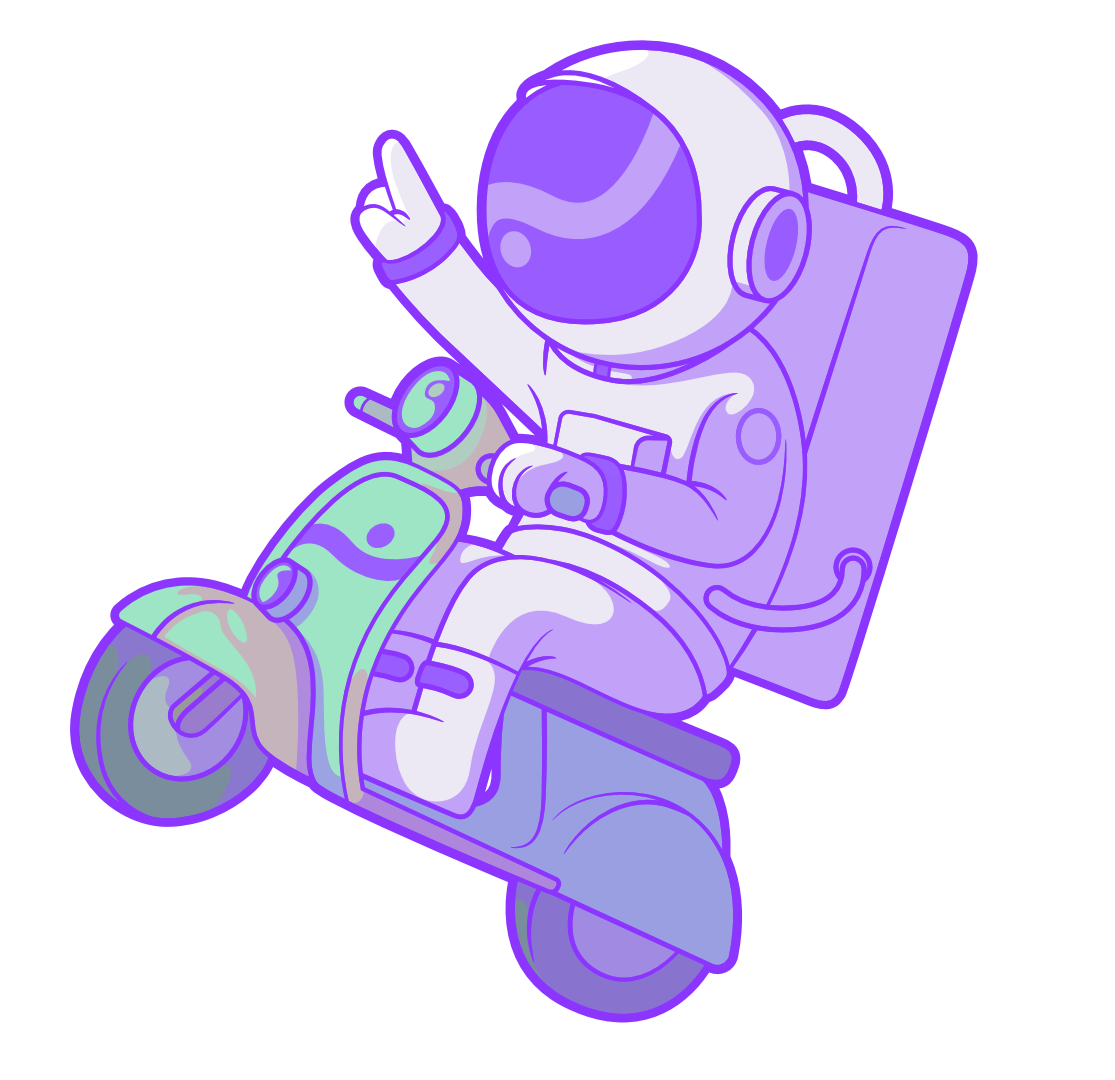
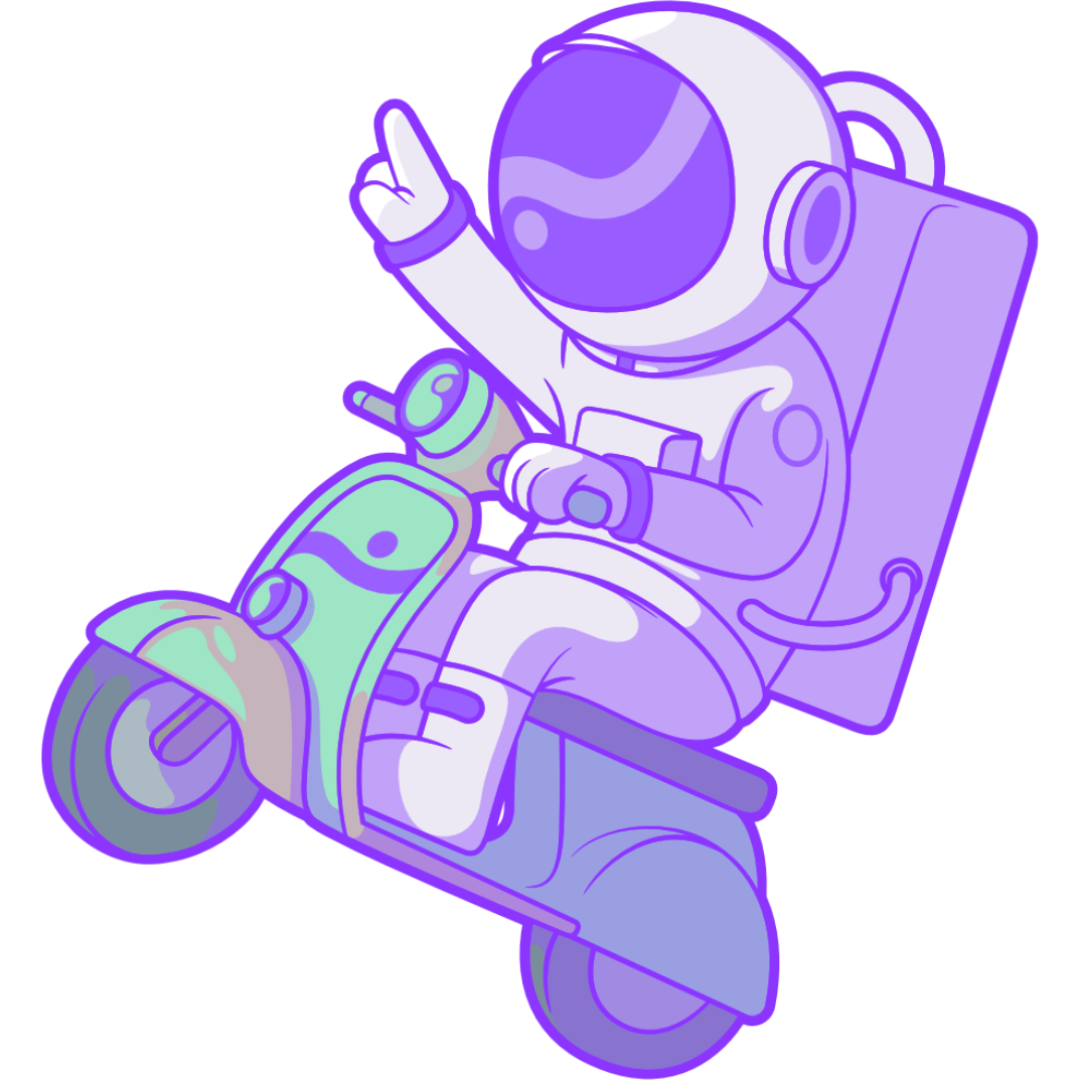
editing astro asset

diff --git a/app/components/Pages/LandingPage.tsx b/app/components/Pages/LandingPage.tsx
@@ -20,7 +20,7 @@ export default function LandingPage({
         <img
           src={mainAboutMeAsset}
           alt="Cup of coffee with glasses riding a scooter in its way to deliver a coffee shipping - Kinxori.com"
-          className={` transition-all duration-[1s] bottom-0 absolute  right-[-10%] scale-[300%] object-contain
+          className={` transition-all duration-[1s] bottom-0 absolute  right-[-10%] scale-[200%] object-contain
           ${isActive ? "opacity-[5%]" : "opacity-[0%]"}`}
         />
       </div>
